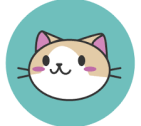
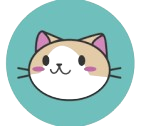
a new ui btn

diff --git a/src/App.js b/src/App.js
@@ -4,7 +4,7 @@ import React, { useState } from 'react';
 import Axios from 'axios';
 
 // UI & LOGOS
-import KawaiiNekoFactBtn from './assets/pictures/kawaii_nekofact_btn-removebg-preview.png'
+import KawaiiNekoFactBtn from './assets/pictures/kawaii_nekofact_btn.png';
 
 function App() {
   const [nekoFact, setNekoFact] = useState("");
